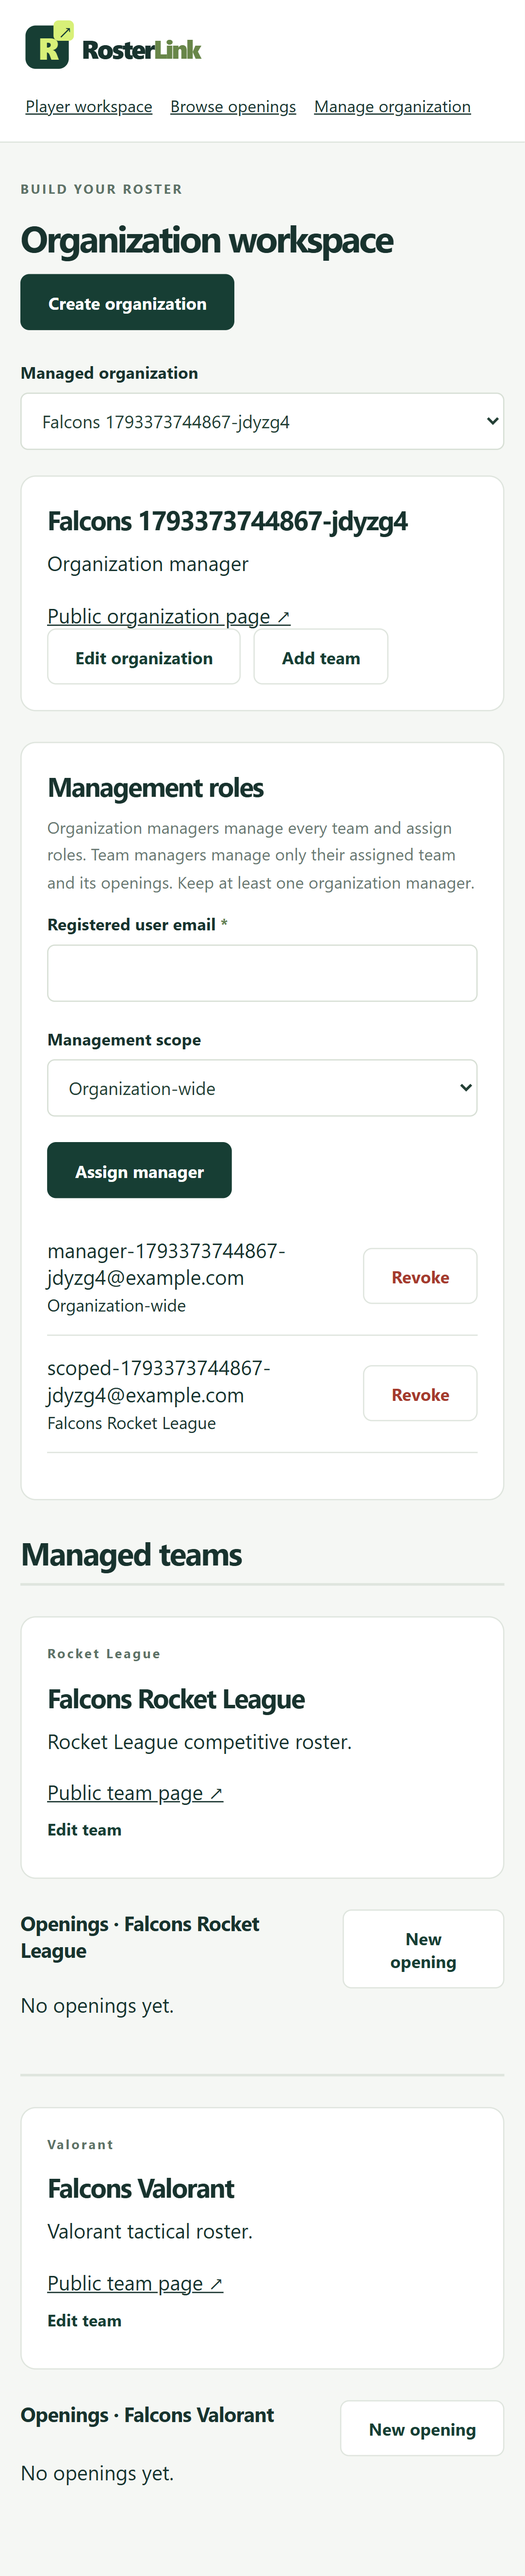
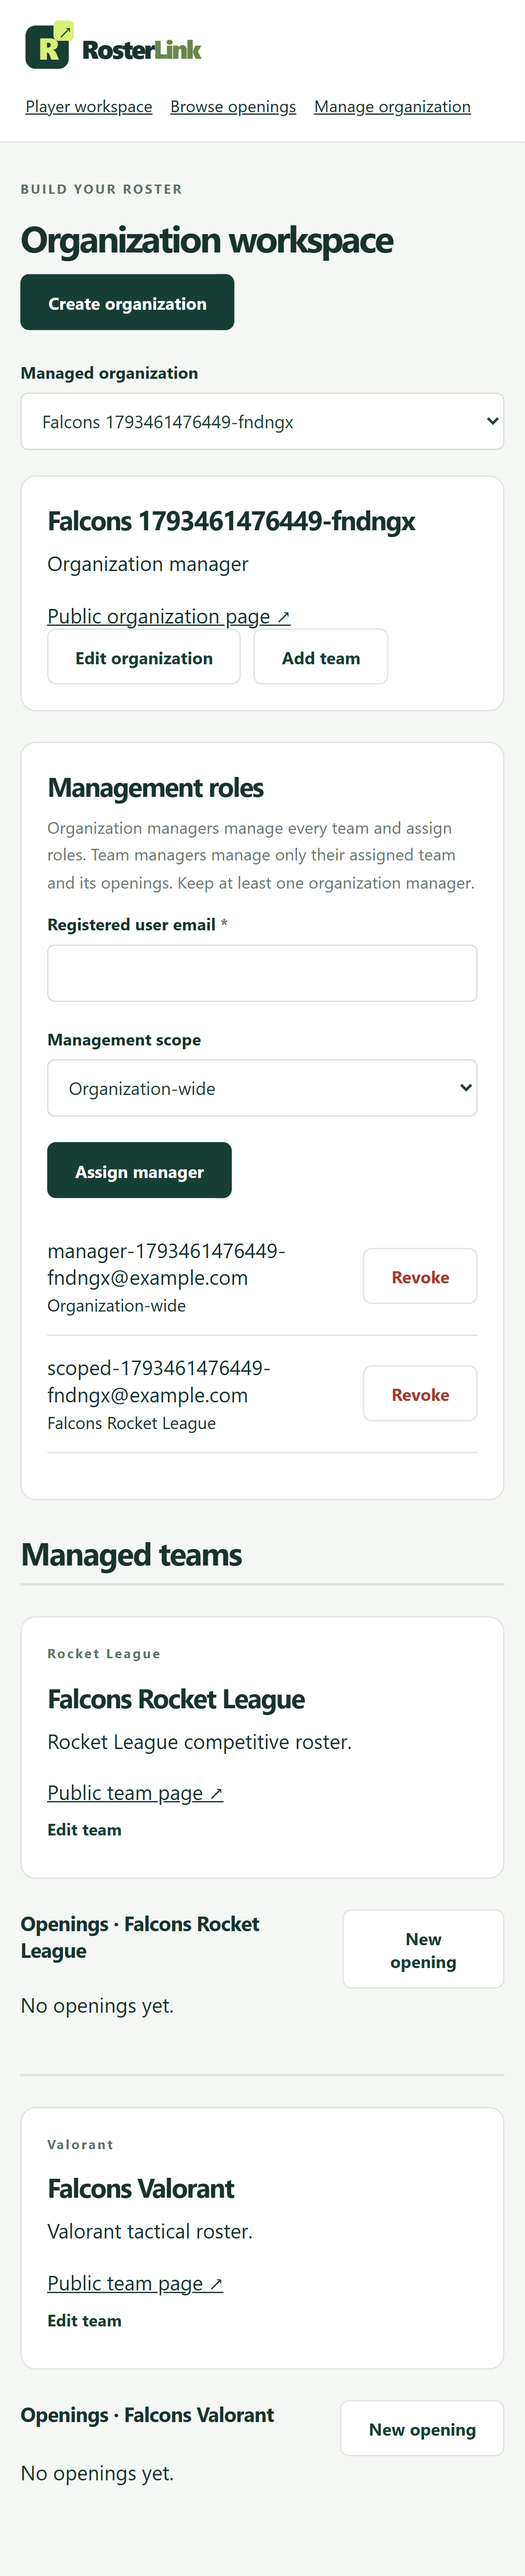
docs: record current Sprint 2 PR verification and refresh evidence

diff --git a/docs/qa/sprint2-pr-verification-2026-10-31.md b/docs/qa/sprint2-pr-verification-2026-10-31.md
@@ -1,0 +1,56 @@
+# Sprint 2 pull request verification — October 31, 2026
+
+Sprint: **October 28–November 4, 2026**. Scope: **SF-14, SF-15, SF-18, SF-19, SF-20, SF-21**. This is a new verification run for PR preparation, separate from the original October 30 run and the earlier October 31 schedule follow-up.
+
+## Code and synchronization
+
+Tested application/test commit: `576681747f85c49d96f7756159b017a48bf5d8c6`. Base: `3fc329df9fc9d872ba7829b7be69685143ebecfb` (`origin/main`). The latest main was fetched before verification and was already an ancestor of this feature branch; no integration merge or conflict resolution was needed. Later publication-preparation changes only update documentation and intentionally refreshed synthetic screenshots, not application/test behavior.
+
+## Current verification
+
+Environment: Windows PowerShell, Node 24.18.1, npm 11.16.0, real isolated MongoDB 8.0.17, installed Chrome desktop and Pixel 7 Chrome emulation. All commands run from the repository root. Development accounts, sessions, media and database are not reset by the tests.
+
+`npm run check` passed: **60/60 backend/domain tests**, zero failed/cancelled/skipped, then a successful Vite production build. This includes the existing Sprint 1 regressions and 12 Sprint 2 scenarios, including structured schedules, backend permission attacks, role revocation, concurrent last-manager protection, retained closure, expired-opening filtering and a real MongoDB restart/new-login persistence check.
+
+Saved backend/build log: `.local-pr-check-2026-10-31.log` (ignored local artifact). Exact result excerpt:
+
+```text
+ℹ tests 60
+ℹ pass 60
+ℹ fail 0
+ℹ cancelled 0
+ℹ skipped 0
+ℹ duration_ms 66704.7596
+
+✓ 34 modules transformed.
+dist/index.html                   0.50 kB │ gzip:  0.32 kB
+dist/assets/index-VPpxA85n.css   22.54 kB │ gzip:  5.57 kB
+dist/assets/index-C4DwOw8J.js   283.02 kB │ gzip: 85.41 kB
+✓ built in 652ms
+```
+
+`npm run test:e2e` passed: **30/30 browser checks**, desktop **15/15** and mobile **15/15**, with both processes exiting 0. These include all 26 existing Sprint 1 browser cases plus the four Sprint 2 cases. Each device uses a fresh API/database so the production authentication rate limit remains unchanged. Saved browser log: `.local-pr-browser-2026-10-31.log` (ignored local artifact).
+
+```text
+Browser verification: desktop-chrome (fresh API and database).
+Running 15 tests using 1 worker
+15 passed (2.2m)
+
+Browser verification: mobile-chrome (fresh API and database).
+Running 15 tests using 1 worker
+15 passed (2.2m)
+```
+
+The full browser journeys verify organizations, game teams, role assignment/revocation, opening publish/edit/close, structured schedule restoration, filtering, public pages, refresh and a new login. Negative cases include anonymous access, stale revoked-manager requests, invalid input, empty states and failed-connection retry. The backend suite additionally covers cross-organization attacks, sibling-team restrictions, invalid/past/impossible deadlines, closed/expired records and legacy-schedule conversion. Test screenshots in `docs/evidence/sprint-2/` were refreshed with synthetic data during this run; the original October 30 textual test results remain preserved separately.
+
+No runtime or test changes were needed after these successful runs. Documentation privacy cleanup and screenshot refresh were reviewed separately with `git diff --check`.
+
+## Publication review and boundaries
+
+Reviewed the diff against main, changed-file history, application/test code and evidence. No `.env`, real secrets, uploads, database files, dependency directories, production build output, raw traces or private account/session data are included in the PR. Test credentials are explicit disposable fixtures; screenshots show synthetic organizations and `example.com` accounts. A targeted token/private-key/credential-URI scan of changed text files found no matches. `.env` remains ignored and untracked. Machine-specific absolute paths were removed from the Sprint 2 evidence document before publication.
+
+The pre-existing untracked October 30 testing-summary PNG is preserved locally and excluded from the PR. Existing reports keep the original **59 tests / 30 browser checks** separate from the earlier schedule follow-up's **60 tests / 4 affected browser checks** and from this new full verification.
+
+Ali's reviewer account resolves to **`MHWS7`**: the GitHub-linked author of commits in PR #6, also a requested reviewer on PR #5, with confirmed repository write permission. Reviewer-request status is reported by the PR itself; resolving the account is not a claim that a review has happened.
+
+Local acceptance does not establish completed team review, merge or deployment. Lists remain unpaginated; schedules support one block per day in 15-minute increments, with explicit IANA timezone and overnight support. Legacy text schedules remain readable and require explicit structured selection on edit. No calendar/DST automation, physical-device/cross-engine usability study, application submission, tryouts, notifications, social posts, or new external-provider integration is included. No real SMTP/provider delivery is claimed.

diff --git a/docs/sprint-2-evidence.md b/docs/sprint-2-evidence.md
@@ -1,5 +1,7 @@
 # Sprint 2 evidence — organizations and recruitment
 
+For the new full verification performed during publication preparation, see [Sprint 2 PR verification — October 31](qa/sprint2-pr-verification-2026-10-31.md). Historical results below remain separate from the current run.
+
 ## Follow-up: structured schedule picker — October 31, 2026
 
 User requested choosing availability from a table to avoid inconsistent free-text schedules. Replaced the opening's Schedule textbox with a responsive, labelled weekly table: select days and choose From/To times in 15-minute increments, retaining the explicit schedule timezone. One block per selected day is supported. Earlier end times finish the following day, with a visible explanation. The API requires structured `scheduleSlots`, validates allowed days/times and rejects empty selections, duplicate days, equal start/end times, overlapping intervals (including the Saturday/Sunday boundary), extra properties and free-text schedule writes. MongoDB stores both the structured values and a server-generated ordered summary.
@@ -21,10 +23,10 @@ Sprint: **October 28–November 4, 2026**. Actual local implementation/verificat
 
 ## Baseline and preservation
 
-- Supplied workspace `C:\Users\naro\444` was empty and not a Git repository. Cloned the existing repository into `C:\Users\naro\444\RosterLink`; inspected clean `main`, remotes, and history, then fetched origin and created `feature/sprint-2-organizations-recruitment` from `origin/main` at `3fc329d`.
+- Supplied workspace was empty and not a Git repository. Cloned the existing repository into its `RosterLink/` directory; inspected clean `main`, remotes, and history, then fetched origin and created `feature/sprint-2-organizations-recruitment` from `origin/main` at `3fc329d`. Machine-specific absolute paths are omitted from this published record.
 - Read README, CONTRIBUTING, architecture/data-model documents, Sprint 1 evidence, dated Sprint 1 fixes and relevant implementation/tests. No repository or workspace/parent `AGENTS.md` was present. `.agents/qa-project-context.md` was absent.
 - Base includes teammate language/toast UI, public sharing, legacy-language/public-route fixes, and password recovery. Reused existing React/Vite, Express, Mongoose, catalog, session/CSRF/origin protection, labelled field/notice/loading controls, success toasts, and responsive styles.
-- Also inspected the separate existing checkout at `C:\Users\naro\Projects\RosterLink`: clean `feature/SF-03-forgotten-password` at `a4715c4`. That commit is an ancestor of this latest-main base. Did not modify its branch, files, ignored environment, media or database.
+- Also inspected a separate existing local checkout: clean `feature/SF-03-forgotten-password` at `a4715c4`. That commit is an ancestor of this latest-main base. Did not modify its branch, files, ignored environment, media or database.
 - Trello board/card URLs could not be read through the web tool. The user's explicit SF-14/15/18/19/20/21 requirements were the implementation contract. No push, PR, merge, deployment, Trello update or external-provider integration occurred.
 
 ## Story behavior and actual status
@@ -56,7 +58,7 @@ Evidence commit follows implementation so the actual implementation SHAs can be 
 | `server/app.js`, `server/index.js` | Mount routes after existing session/CSRF middleware; initialize new indexes before API startup |
 | `client/Recruitment.jsx` | Organization/team public pages; management forms/roles; opening editor, detail and browse/filter UI |
 | `client/App.jsx`, `client/main.jsx`, `client/styles.css` | Entry links and URL routing; reuse existing workspace/UI; responsive recruitment layout |
-| `tests/recruitment.test.js` | Eleven real-MongoDB API/security/lifecycle/filter/persistence scenarios |
+| `tests/recruitment.test.js` | Eleven original real-MongoDB API/security/lifecycle/filter/persistence scenarios; twelve after the structured-schedule follow-up |
 | `tests/browser/recruitment.spec.js` | Desktop/mobile real UI journeys, role revocation with stale UI, validation, retry and screenshots |
 | `scripts/e2e-api.js` | Initialize new model indexes in isolated browser test API |
 | `scripts/run-browser-tests.js`, `package.json` | Run device projects in separate API/database lifecycles; preserve unchanged production authentication rate limits and forward test filters |
@@ -67,7 +69,7 @@ No dependencies, account/authentication/profile/media/recovery implementation or
 
 ## Exact commands and actual results
 
-All commands run in `C:\Users\naro\444\RosterLink`, Windows PowerShell, Node **24.18.1**, npm **11.16.0**. API/browser tests use real isolated **MongoDB 8.0.17** processes; no development database or user data is seeded or reset. Browser tests use installed Google Chrome and Pixel 7 Chrome emulation.
+All commands run from the repository root in Windows PowerShell, Node **24.18.1**, npm **11.16.0**. API/browser tests use real isolated **MongoDB 8.0.17** processes; no development database or user data is seeded or reset. Browser tests use installed Google Chrome and Pixel 7 Chrome emulation.
 
 | Command | Actual result |
 | --- | --- |
